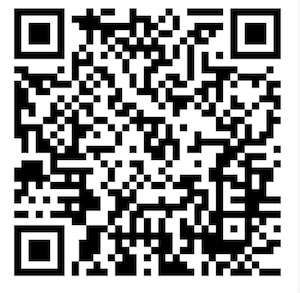
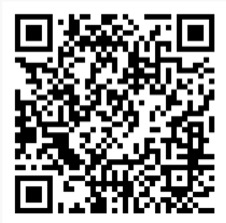
new survey

diff --git a/README.md b/README.md
@@ -1,5 +1,5 @@
 # survey
-## [https://ohio.qualtrics.com/jfe/form/SV_2bfZGUVpGO9pz1A](https://ohio.qualtrics.com/jfe/form/SV_2bfZGUVpGO9pz1A)
+## [https://ohio.qualtrics.com/jfe/form/SV_4ZP94Hi90RcHGzc](https://ohio.qualtrics.com/jfe/form/SV_4ZP94Hi90RcHGzc)
 
 
 ![](survey.jpg)
